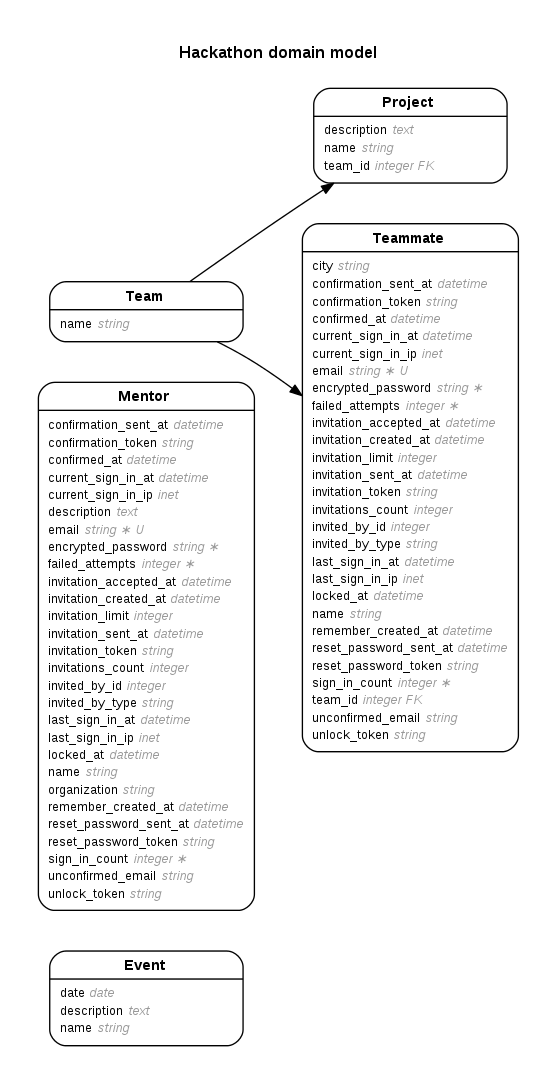
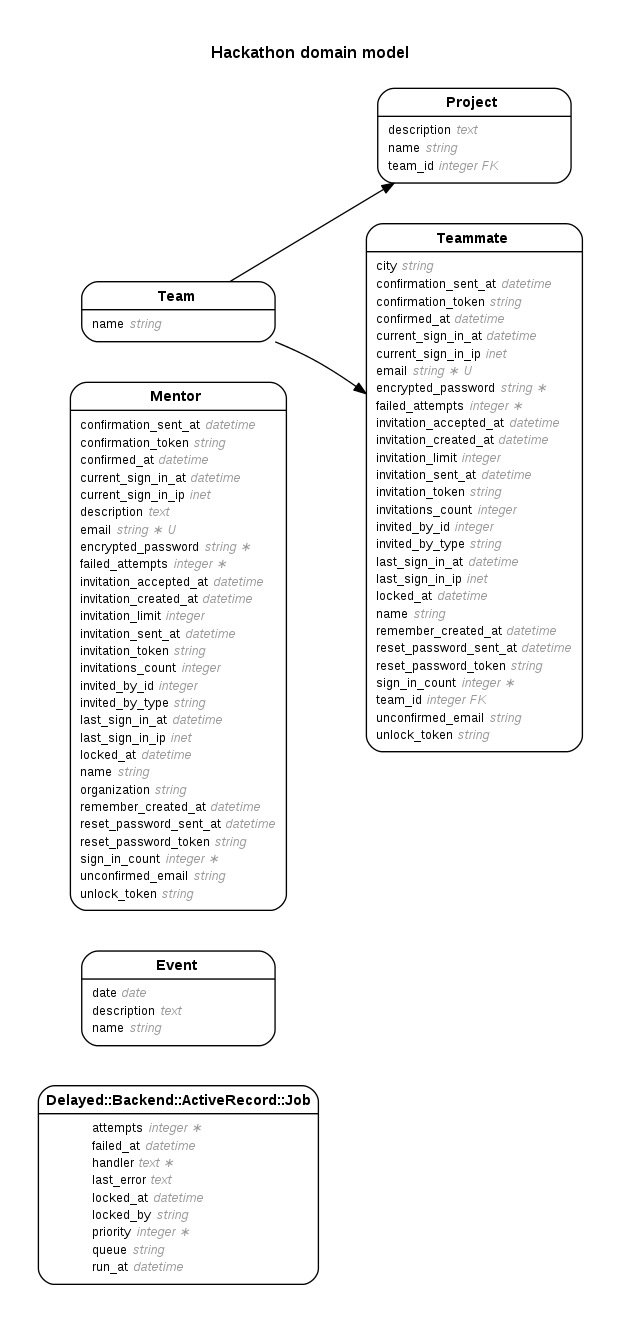
add act_as_taggable_on, .env file and delayed job

Changed region(s): [[0.061, 0.1825, 0.5189, 0.9733], [0.3357, 0.0304, 0.9461, 0.6995], [0.4578, 0.1825, 0.4883, 0.2129]]

diff --git a/db/schema.rb b/db/schema.rb
@@ -11,10 +11,26 @@
 #
 # It's strongly recommended that you check this file into your version control system.
 
-ActiveRecord::Schema.define(version: 20160802094424) do
+ActiveRecord::Schema.define(version: 20160802105910) do
 
   # These are extensions that must be enabled in order to support this database
   enable_extension "plpgsql"
+
+  create_table "delayed_jobs", force: :cascade do |t|
+    t.integer  "priority",   default: 0, null: false
+    t.integer  "attempts",   default: 0, null: false
+    t.text     "handler",                null: false
+    t.text     "last_error"
+    t.datetime "run_at"
+    t.datetime "locked_at"
+    t.datetime "failed_at"
+    t.string   "locked_by"
+    t.string   "queue"
+    t.datetime "created_at"
+    t.datetime "updated_at"
+  end
+
+  add_index "delayed_jobs", ["priority", "run_at"], name: "delayed_jobs_priority", using: :btree
 
   create_table "events", force: :cascade do |t|
     t.string   "name"
@@ -74,6 +90,26 @@ ActiveRecord::Schema.define(version: 20160802094424) do
   end
 
   add_index "projects", ["team_id"], name: "index_projects_on_team_id", using: :btree
+
+  create_table "taggings", force: :cascade do |t|
+    t.integer  "tag_id"
+    t.integer  "taggable_id"
+    t.string   "taggable_type"
+    t.integer  "tagger_id"
+    t.string   "tagger_type"
+    t.string   "context",       limit: 128
+    t.datetime "created_at"
+  end
+
+  add_index "taggings", ["tag_id", "taggable_id", "taggable_type", "context", "tagger_id", "tagger_type"], name: "taggings_idx", unique: true, using: :btree
+  add_index "taggings", ["taggable_id", "taggable_type", "context"], name: "index_taggings_on_taggable_id_and_taggable_type_and_context", using: :btree
+
+  create_table "tags", force: :cascade do |t|
+    t.string  "name"
+    t.integer "taggings_count", default: 0
+  end
+
+  add_index "tags", ["name"], name: "index_tags_on_name", unique: true, using: :btree
 
   create_table "teammates", force: :cascade do |t|
     t.string   "name"

diff --git a/db/migrate/20160802105910_create_delayed_jobs.rb b/db/migrate/20160802105910_create_delayed_jobs.rb
@@ -1,0 +1,22 @@
+class CreateDelayedJobs < ActiveRecord::Migration
+  def self.up
+    create_table :delayed_jobs, force: true do |table|
+      table.integer :priority, default: 0, null: false # Allows some jobs to jump to the front of the queue
+      table.integer :attempts, default: 0, null: false # Provides for retries, but still fail eventually.
+      table.text :handler,                 null: false # YAML-encoded string of the object that will do work
+      table.text :last_error                           # reason for last failure (See Note below)
+      table.datetime :run_at                           # When to run. Could be Time.zone.now for immediately, or sometime in the future.
+      table.datetime :locked_at                        # Set when a client is working on this object
+      table.datetime :failed_at                        # Set when all retries have failed (actually, by default, the record is deleted instead)
+      table.string :locked_by                          # Who is working on this object (if locked)
+      table.string :queue                              # The name of the queue this job is in
+      table.timestamps null: true
+    end
+
+    add_index :delayed_jobs, [:priority, :run_at], name: "delayed_jobs_priority"
+  end
+
+  def self.down
+    drop_table :delayed_jobs
+  end
+end

diff --git a/config/initializers/devise.rb b/config/initializers/devise.rb
@@ -12,10 +12,10 @@ Devise.setup do |config|
   # Configure the e-mail address which will be shown in Devise::Mailer,
   # note that it will be overwritten if you use your own mailer class
   # with default "from" parameter.
-  config.mailer_sender = 'please-change-me-at-config-initializers-devise@example.com'
+  config.mailer_sender = 'yakovenko.denis.a@gmail.com'
 
   # Configure the class responsible to send e-mails.
-  # config.mailer = 'Devise::Mailer'
+  config.mailer = 'Devise::Mailer'
 
   # Configure the parent class responsible to send e-mails.
   # config.parent_mailer = 'ActionMailer::Base'
@@ -34,7 +34,7 @@ Devise.setup do |config|
   # session. If you need permissions, you should implement that in a before filter.
   # You can also supply a hash where the value is a boolean determining whether
   # or not authentication should be aborted when the value is not present.
-  # config.authentication_keys = [:email]
+  config.authentication_keys = [:email]
 
   # Configure parameters from the request object used for authentication. Each entry
   # given should be a request method and it will automatically be passed to the

diff --git a/config/environments/development.rb b/config/environments/development.rb
@@ -39,5 +39,23 @@ Rails.application.configure do
   # Raises error for missing translations
   # config.action_view.raise_on_missing_translations = true
 
-  config.action_mailer.default_url_options = { host: 'localhost', port: 3000 }
+  # Do not swallow errors in after_commit/after_rollback callbacks.
+  config.active_record.raise_in_transactional_callbacks = true
+  config.action_mailer.default_url_options = { host: 'localhost:3000' }
+  config.action_mailer.delivery_method = :smtp
+  config.action_mailer.perform_deliveries = true
+
+  config.active_job.queue_adapter = :delayed_job
+
+  config.action_mailer.smtp_settings = {
+    openssl_verify_mode: 'none',
+    tls: false,
+    enable_starttls_auto: true,
+    address: 'smtp.gmail.com',
+    domain: 'gmail.com',
+    port: 587,
+    user_name: ENV['ACTION_MAILER_USERNAME'] || 'yakovenko.denis.a@gmail.com',
+    password: ENV['ACTION_MAILER_PASSWORD'],
+    authentication: :login
+  }
 end

diff --git a/db/migrate/20160802095445_acts_as_taggable_on_migration.acts_as_taggable_on_engine.rb b/db/migrate/20160802095445_acts_as_taggable_on_migration.acts_as_taggable_on_engine.rb
@@ -1,0 +1,31 @@
+# This migration comes from acts_as_taggable_on_engine (originally 1)
+class ActsAsTaggableOnMigration < ActiveRecord::Migration
+  def self.up
+    create_table :tags do |t|
+      t.string :name
+    end
+
+    create_table :taggings do |t|
+      t.references :tag
+
+      # You should make sure that the column created is
+      # long enough to store the required class names.
+      t.references :taggable, polymorphic: true
+      t.references :tagger, polymorphic: true
+
+      # Limit is created to prevent MySQL error on index
+      # length for MyISAM table type: http://bit.ly/vgW2Ql
+      t.string :context, limit: 128
+
+      t.datetime :created_at
+    end
+
+    add_index :taggings, :tag_id
+    add_index :taggings, [:taggable_id, :taggable_type, :context]
+  end
+
+  def self.down
+    drop_table :taggings
+    drop_table :tags
+  end
+end

diff --git a/config/environments/production.rb b/config/environments/production.rb
@@ -76,4 +76,22 @@ Rails.application.configure do
 
   # Do not dump schema after migrations.
   config.active_record.dump_schema_after_migration = false
+
+  config.action_mailer.default_url_options = {
+    host: ENV['ACTION_MAILER_HOST'] || 'localhost:3000'
+  }
+  config.action_mailer.delivery_method = :smtp
+  config.action_mailer.perform_deliveries = true
+
+  config.action_mailer.smtp_settings = {
+    openssl_verify_mode: 'none',
+    tls: false,
+    enable_starttls_auto: true,
+    address: 'smtp.gmail.com',
+    domain: ENV['ACTION_MAILER_HOST'] || 'localhost',
+    port: 587,
+    user_name: ENV['ACTION_MAILER_USERNAME'] || 'yakovenko.denis.a@gmail.com',
+    password: ENV['ACTION_MAILER_PASSWORD'],
+    authentication: 'login'
+  }
 end

diff --git a/db/migrate/20160802095446_add_missing_unique_indices.acts_as_taggable_on_engine.rb b/db/migrate/20160802095446_add_missing_unique_indices.acts_as_taggable_on_engine.rb
@@ -1,0 +1,20 @@
+# This migration comes from acts_as_taggable_on_engine (originally 2)
+class AddMissingUniqueIndices < ActiveRecord::Migration
+  def self.up
+    add_index :tags, :name, unique: true
+
+    remove_index :taggings, :tag_id
+    remove_index :taggings, [:taggable_id, :taggable_type, :context]
+    add_index :taggings,
+              [:tag_id, :taggable_id, :taggable_type, :context, :tagger_id, :tagger_type],
+              unique: true, name: 'taggings_idx'
+  end
+
+  def self.down
+    remove_index :tags, :name
+
+    remove_index :taggings, name: 'taggings_idx'
+    add_index :taggings, :tag_id
+    add_index :taggings, [:taggable_id, :taggable_type, :context]
+  end
+end

diff --git a/config/application.rb b/config/application.rb
@@ -31,5 +31,19 @@ module Hackathon
 
     # Do not swallow errors in after_commit/after_rollback callbacks.
     config.active_record.raise_in_transactional_callbacks = true
+
+    config.active_job.queue_adapter = :delayed_job
+
+    config.action_mailer.smtp_settings = {
+      openssl_verify_mode: 'none',
+      tls: false,
+      enable_starttls_auto: true,
+      address: 'smtp.gmail.com',
+      domain: 'gmail.com',
+      port: 587,
+      user_name: ENV['ACTION_MAILER_USERNAME'] || 'yakovenko.denis.a@gmail.com',
+      password: ENV['ACTION_MAILER_PASSWORD'],
+      authentication: :login
+    }
   end
 end

diff --git a/config/routes.rb b/config/routes.rb
@@ -3,8 +3,7 @@ Rails.application.routes.draw do
   devise_for :mentors
   devise_for :teammates,
     controllers: {
-      registrations: 'teammates/registrations',
-      sessions: 'teammates/sessions'
+      registrations: 'teammates/registrations'
   }, path_names: {
       sign_in: 'login',
       sign_out: 'logout',
@@ -14,7 +13,6 @@ Rails.application.routes.draw do
   root 'home#index'
 
   authenticated :teammate do
-    # get 'team', to: 'teammates/team#index'
     resources :team, controller: 'teammates/team'
   end
 end

diff --git a/db/migrate/20160802095447_add_taggings_counter_cache_to_tags.acts_as_taggable_on_engine.rb b/db/migrate/20160802095447_add_taggings_counter_cache_to_tags.acts_as_taggable_on_engine.rb
@@ -1,0 +1,15 @@
+# This migration comes from acts_as_taggable_on_engine (originally 3)
+class AddTaggingsCounterCacheToTags < ActiveRecord::Migration
+  def self.up
+    add_column :tags, :taggings_count, :integer, default: 0
+
+    ActsAsTaggableOn::Tag.reset_column_information
+    ActsAsTaggableOn::Tag.find_each do |tag|
+      ActsAsTaggableOn::Tag.reset_counters(tag.id, :taggings)
+    end
+  end
+
+  def self.down
+    remove_column :tags, :taggings_count
+  end
+end

diff --git a/db/migrate/20160802095449_change_collation_for_tag_names.acts_as_taggable_on_engine.rb b/db/migrate/20160802095449_change_collation_for_tag_names.acts_as_taggable_on_engine.rb
@@ -1,0 +1,10 @@
+# This migration comes from acts_as_taggable_on_engine (originally 5)
+# This migration is added to circumvent issue #623 and have special characters
+# work properly
+class ChangeCollationForTagNames < ActiveRecord::Migration
+  def up
+    if ActsAsTaggableOn::Utils.using_mysql?
+      execute("ALTER TABLE tags MODIFY name varchar(255) CHARACTER SET utf8 COLLATE utf8_bin;")
+    end
+  end
+end

diff --git a/app/models/teammate.rb b/app/models/teammate.rb
@@ -5,4 +5,10 @@ class Teammate < ActiveRecord::Base
          :recoverable, :rememberable, :trackable, :validatable,
          :confirmable, :lockable
   belongs_to :team
+
+  acts_as_taggable_on :technologies
+
+  def send_devise_notification(notification, *args)
+    devise_mailer.send(notification, self, *args).deliver_later
+  end
 end
